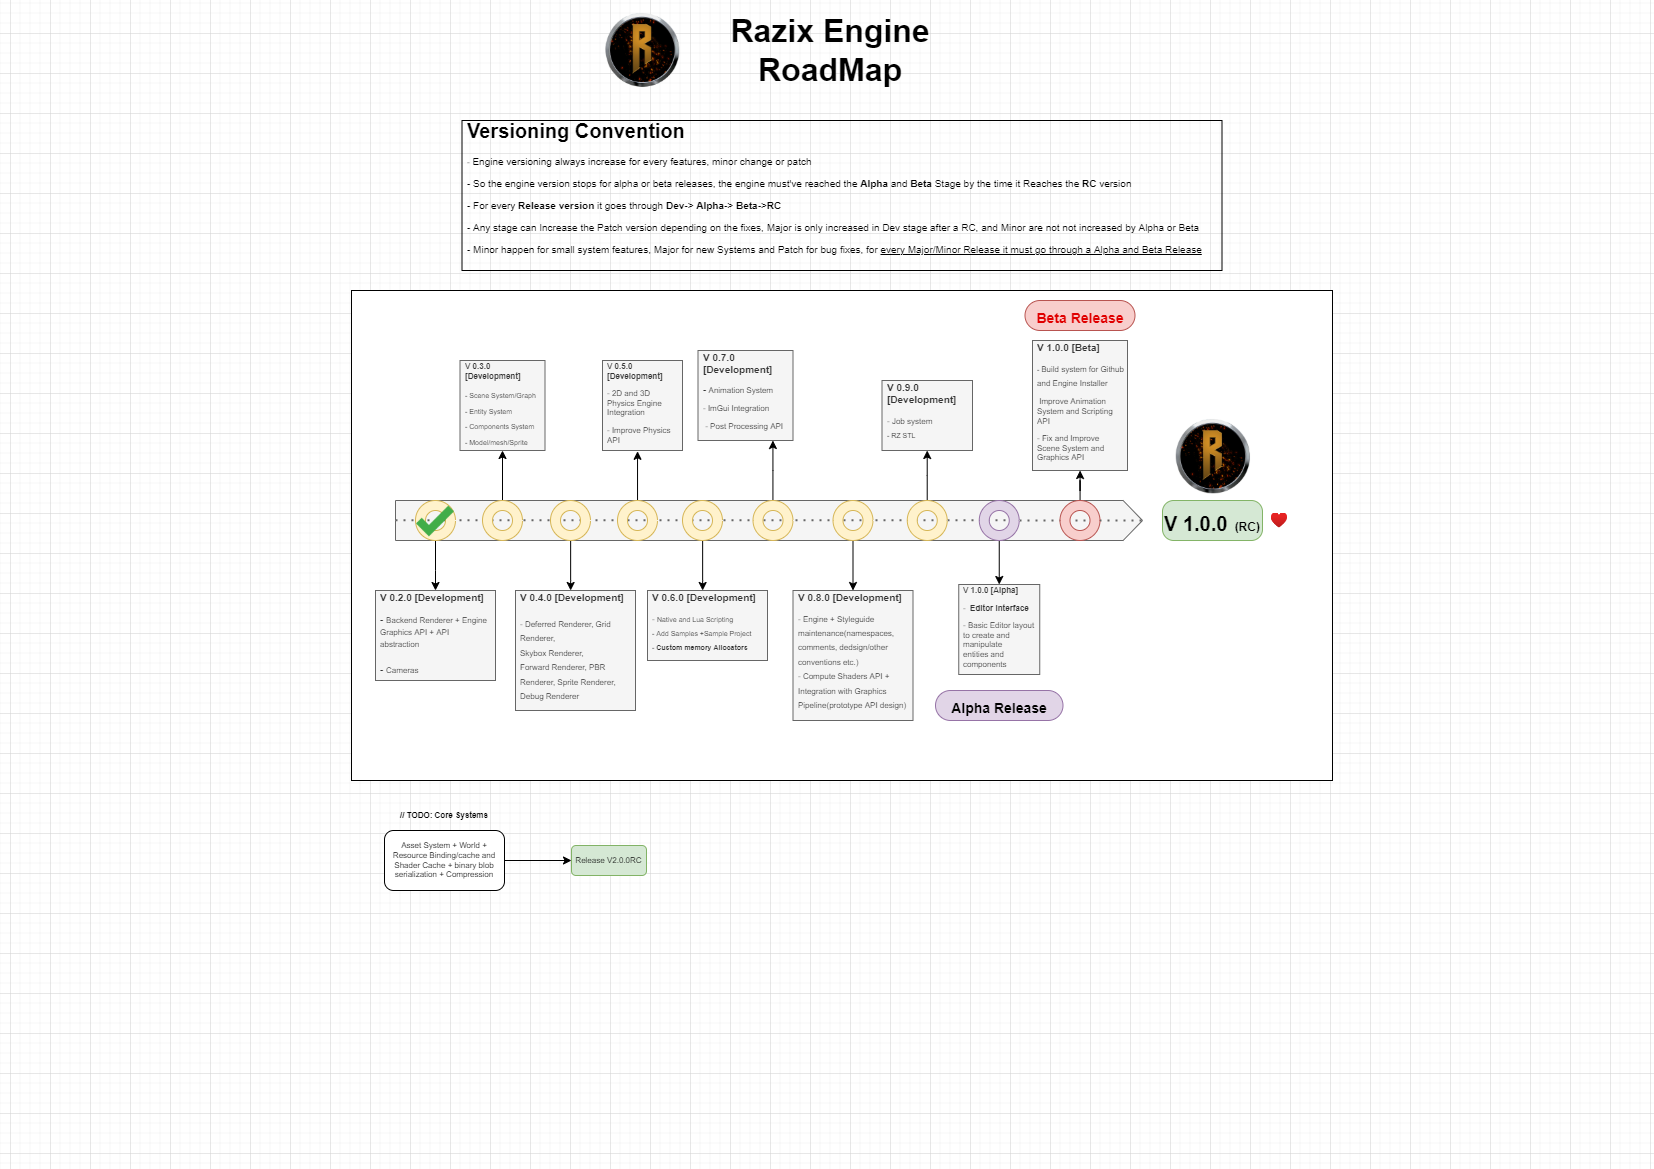
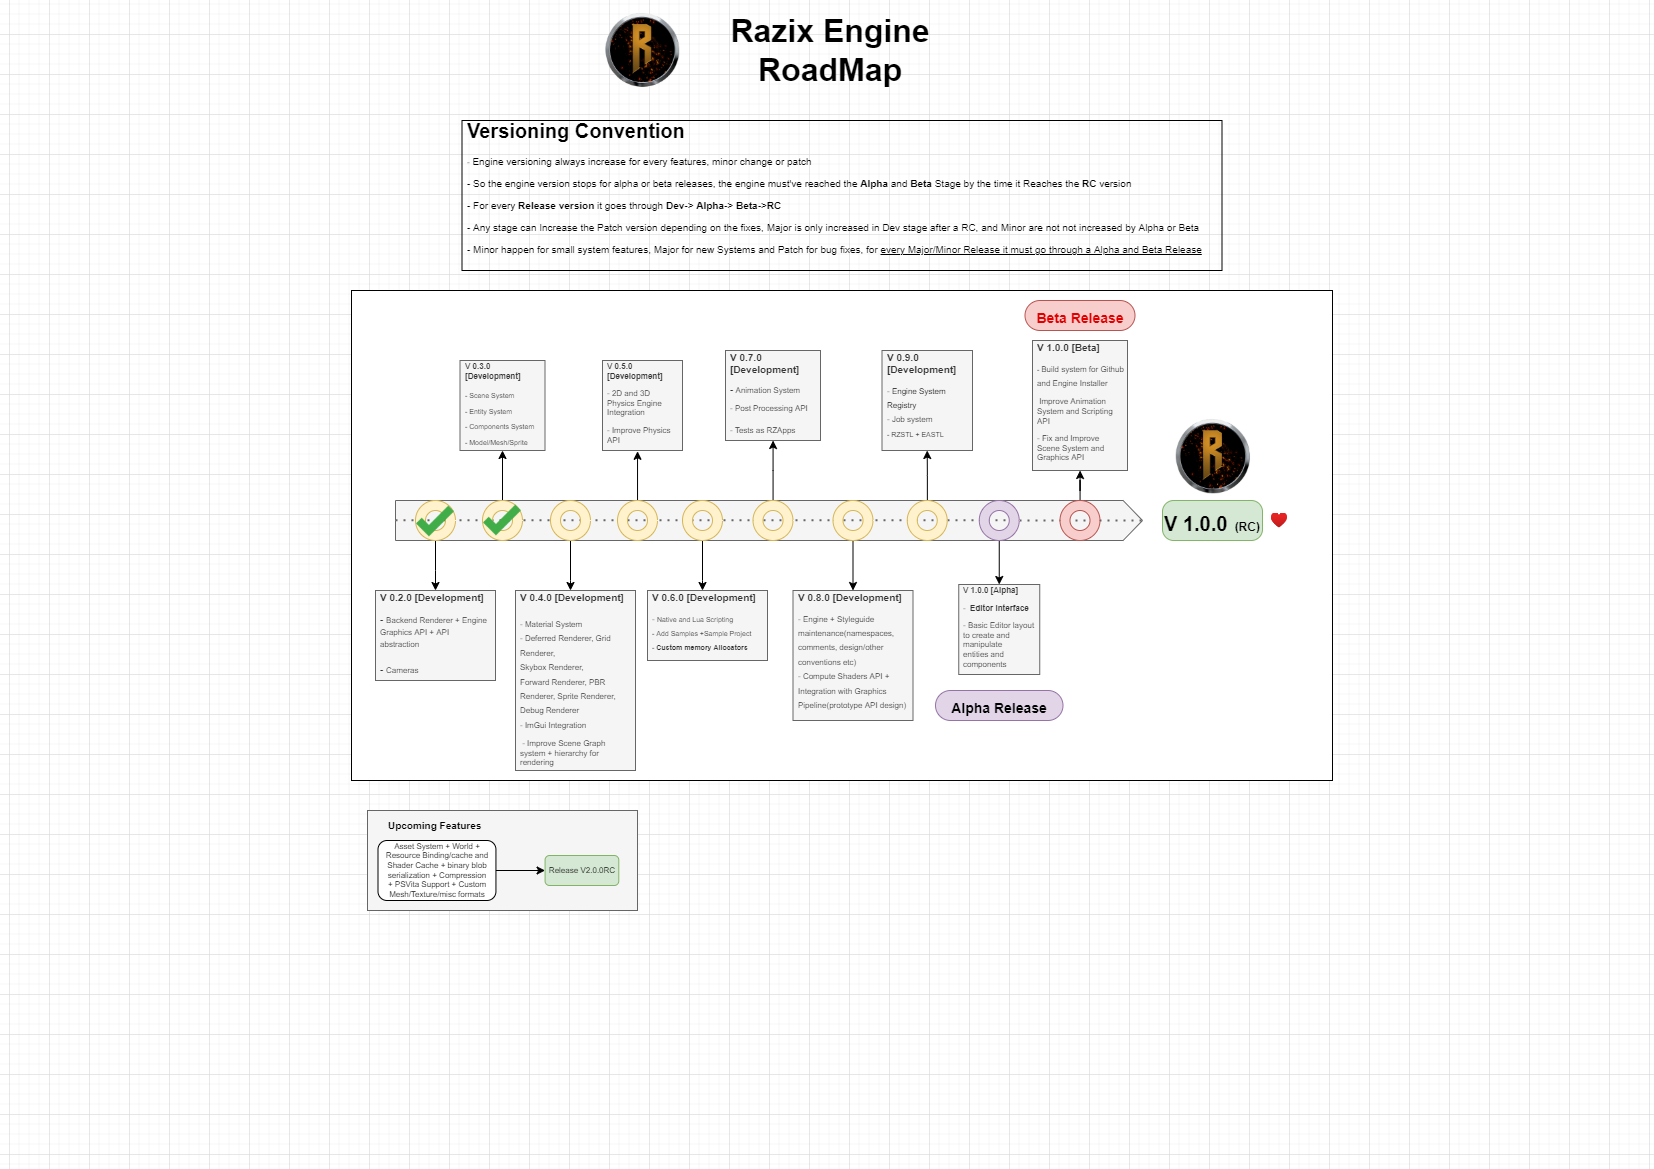
Razix V0.3.0.Dev Release

diff --git a/Engine/src/Razix/Core/RazixVersion.h b/Engine/src/Razix/Core/RazixVersion.h
@@ -80,7 +80,7 @@ namespace Razix
 
     /* The Engine's current Version and release status [Date format : DD/MM/YYYY]*/
     ////-----------------------------------------------------------------------------------------------------------////
-    /**/ const Version RazixVersion = Version(0, 20, 1, Version::Stage::Development, Version::Date(16, 1, 2022));
+    /**/ const Version RazixVersion = Version(0, 30, 0, Version::Stage::Development, Version::Date(06, 3, 2022));
     ////-----------------------------------------------------------------------------------------------------------////
 
 }

diff --git a/Docs/CHANGELOG.md b/Docs/CHANGELOG.md
@@ -1,15 +1,29 @@
 # Razix Engine Changelog
 
-## Version - 0.20.1 [Development] - 16/01/2022
+#### Version - 0.30.0 [Development] - 06/03/2022
+![](../Branding/DemoImages/ReleaseNotes/RazixV0.3.0.Dev.SceneTest.png)
+
+    - Added Entity Component System with entities
+    - Added Robust Scene System and Scene Manager
+    - Added multiple components such as Transform, Tag, ID, Camera, Meshrenderer, Sprite Renderer etc.
+    - Added Model, Mesh and Sprite primitieves with utilities
+    - Added loaders for OBJ, FBX and GLTF2.0
+    - Added test sandbox scenarios to test the above
+
+
+#### Version - 0.20.1 [Development] - 16/01/2022
 ![](../Branding/DemoImages/ReleaseNotes/RazixV0.2.0.Dev.GridTest.png)
-- Added test grid shaders in rzsf language + fixed minor sync and resizing issues
-- Fixed minor issues with descriptor set API and Uniform binding
-- Added Render targets for off screen rendering simplification + Post processing
+
+    - Added test grid shaders in rzsf language + fixed minor sync and resizing issues
+    - Fixed minor issues with descriptor set API and Uniform binding
+    - Added Render targets for off screen rendering simplification + Post processing
     - Added vignette shader + example
-- Fixed minor bug with project path serialization and de-serialization
-- Identified some critical swap images tearing bug
+    - Fixed minor bug with project path serialization and de-serialization
+    - Identified some critical swap images tearing bug
 
 #### Version - 0.20.0 [Development] - 09/01/2022
+![](../Branding/DemoImages/ReleaseNotes/HelloTriangle.png)
+
     - Developed First draft of Engine Graphics API
     - Created Razix Code Editor tool for editing Shaders and scripts files + SonyWWS ATF as vendor for tools and editor
     - Added Vulkan Renderer and Graphips API abstractions for it (such as Descriptor sets, render passes, textures, framebuffers, etc)
@@ -19,6 +33,8 @@
     - Improved design consistency for entire engine and reduced cyclic dependency
 
 #### Version - 0.16.0 [Development] - 15/09/2021
+![](../Branding/DemoImages/ReleaseNotes/splashdemo.png)
+
     - Added Command line options for Engine application
     - Added *.razixproject file type registration for windows
     - Added splash screen to track Engine Ignition [WINDOWS ONLY]

diff --git a/Docs/ReleaseNotes.md b/Docs/ReleaseNotes.md
@@ -1,14 +1,15 @@
 # Razix Engine Release Notes
 
-## Version - 0.20.1 [Development] - 16/01/2022
-![](../Branding/DemoImages/ReleaseNotes/RazixV0.2.0.Dev.GridTest.png)
-- Added test grid shaders in rzsf language + fixed minor sync and resizing issues
-- Fixed minor issues with descriptor set API and Uniform binding
-- Added Render targets for off screen rendering simplification + Post processing
-    - Added vignette shader + example
-- Fixed minor bug with project path serialization and de-serialization
-- Identified some critical swap images tearing bug
+## Version - 0.30.0 [Development] - 06/03/2022
+    ![](../Branding/DemoImages/ReleaseNotes/RazixV0.3.0.Dev.SceneTest.png)
+    - Added Entity Component System with entities
+    - Added Robust Scene System and Scene Manager
+    - Added multiple components such as Transform, Tag, ID, Camera, Meshrenderer, Sprite Renderer etc.
+    - Added Model, Mesh and Sprite primitieves with utilities
+    - Added loaders for OBJ, FBX and GLTF2.0
+    - Added test sandbox scenarios to test the above
 
 #### Known Issues
 - some kind of tearing issues when camera moves super fast : [Issue #85](https://github.com/Pikachuxxxx/Razix/issues/85)
 - Vulkan Swapchain or RT initial render target layout transition issue : [Issue #83](https://github.com/Pikachuxxxx/Razix/issues/83)
+- Cannot load Vulkan textures larger than 1024x1024 in dimenstion : [Issue #108](https://github.com/Pikachuxxxx/Razix/issues/108)
